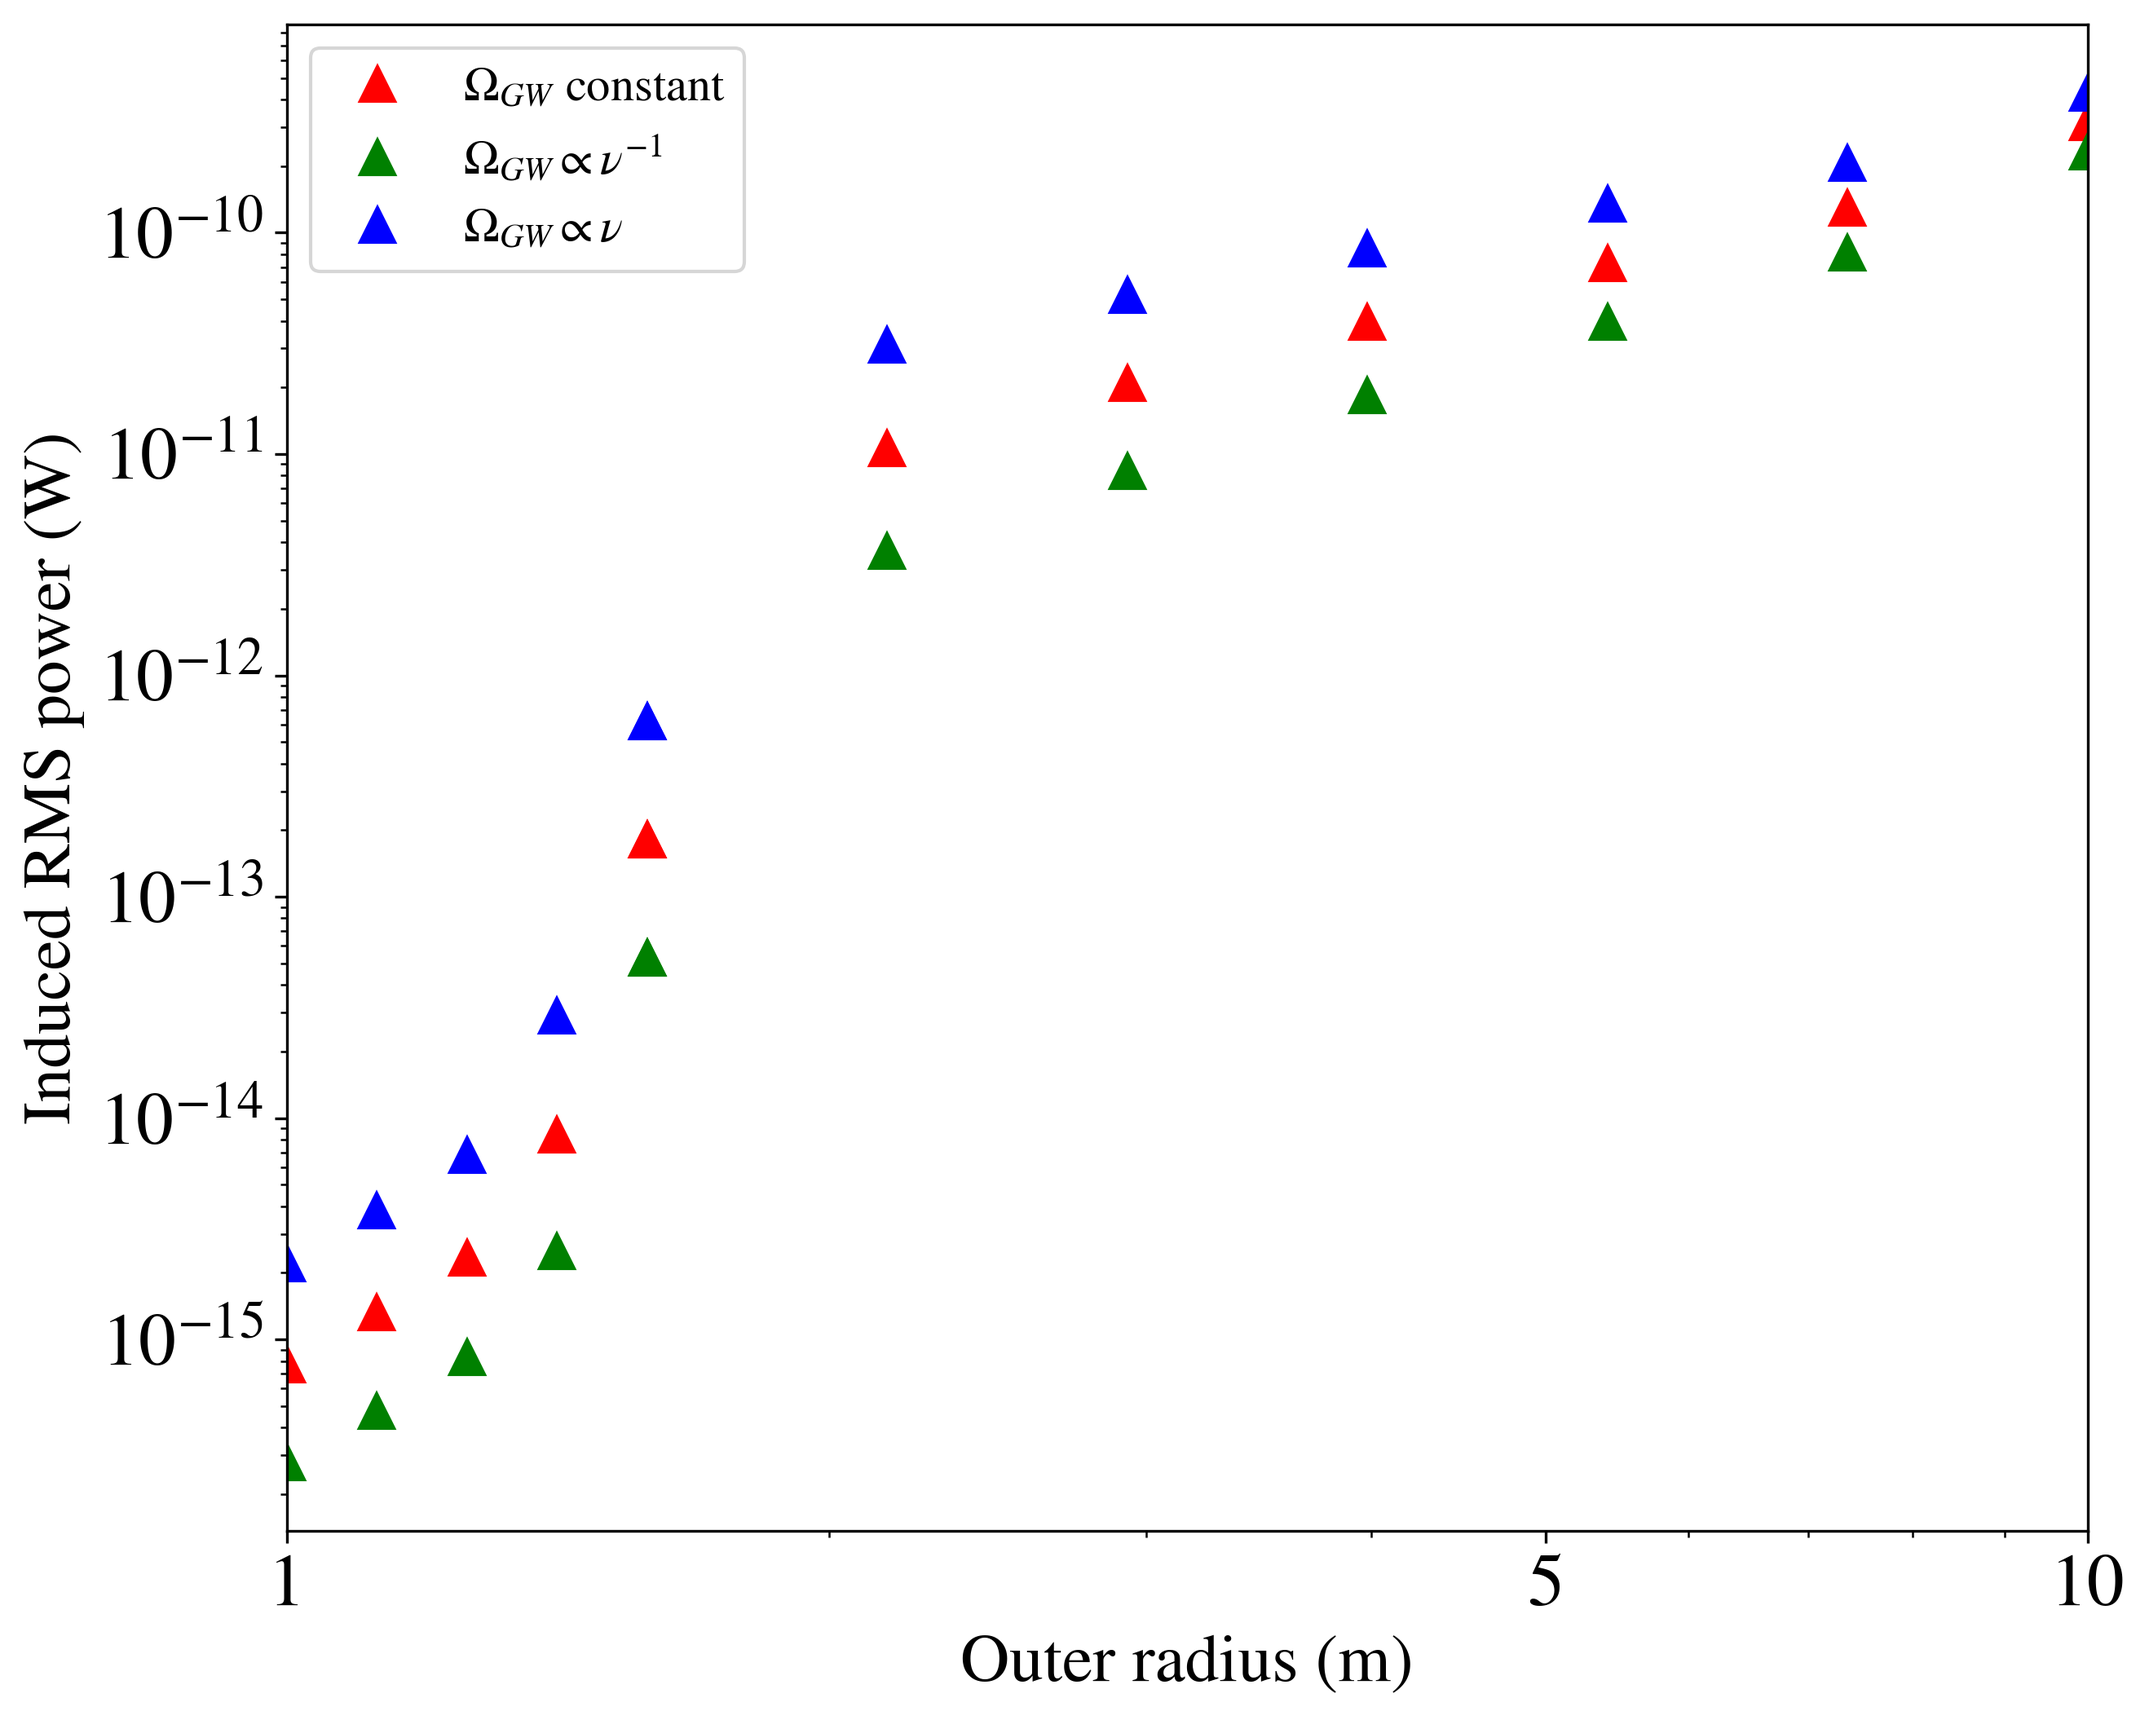
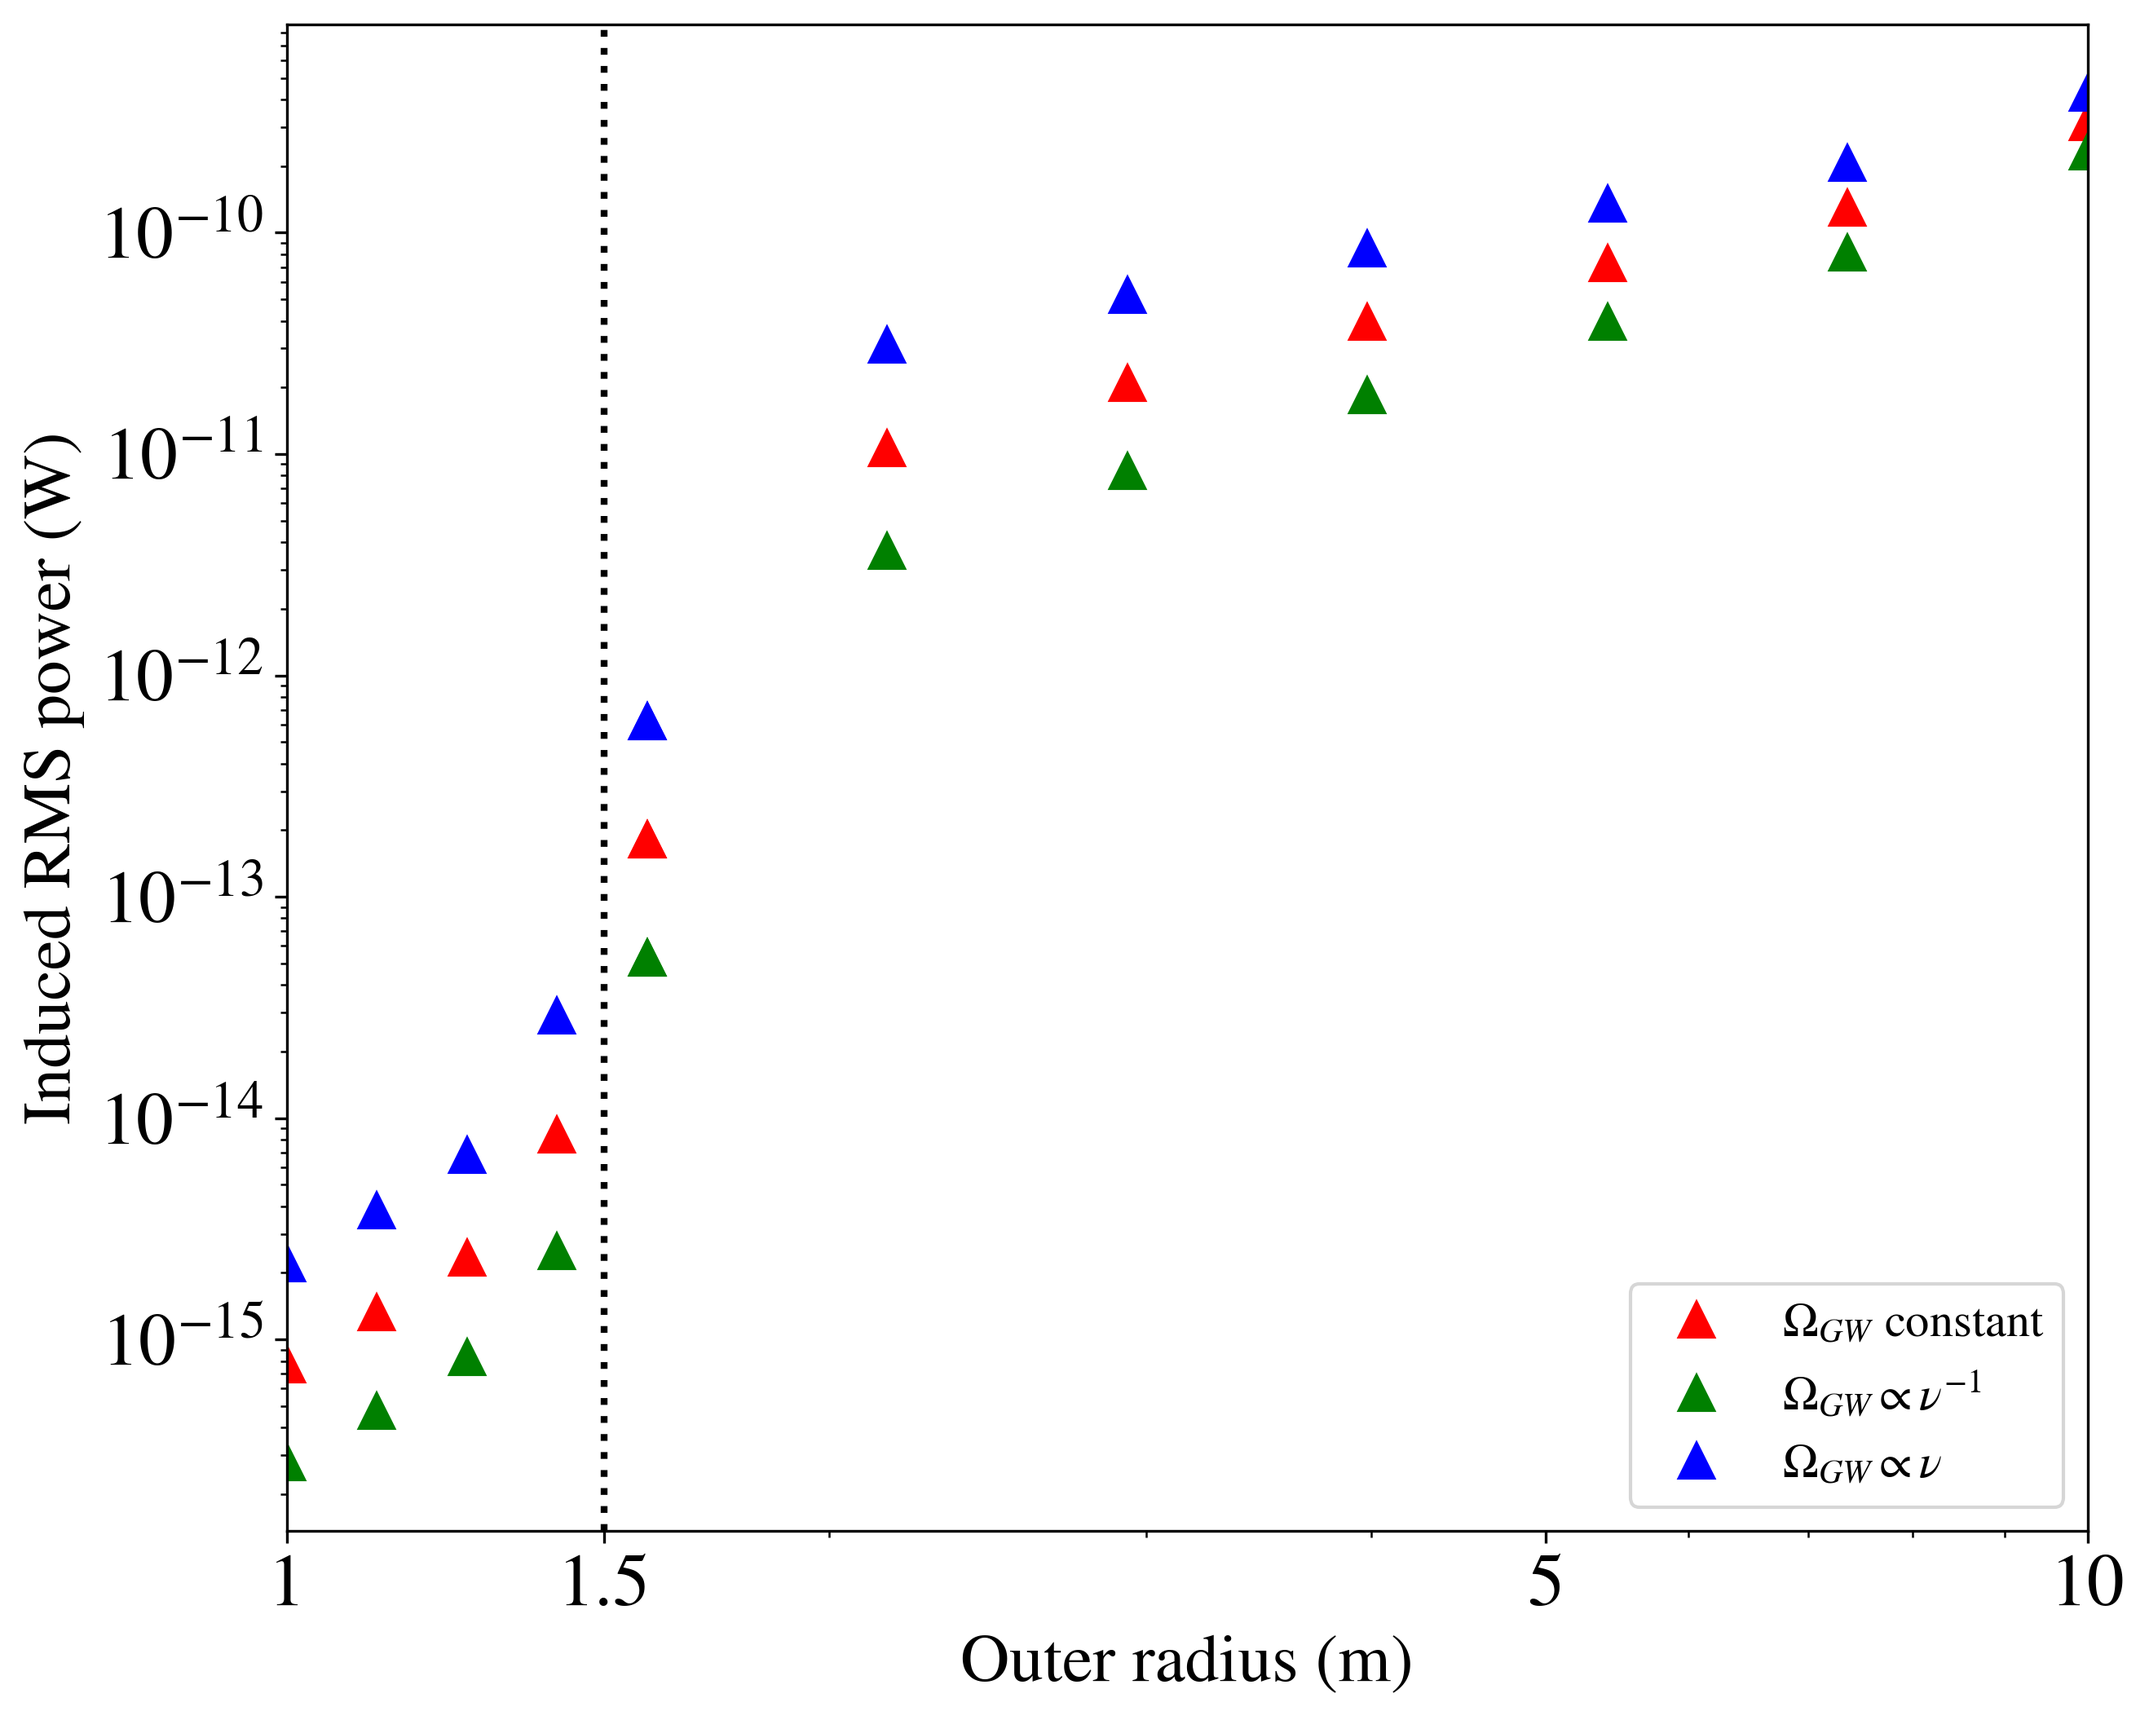
blblb

diff --git a/plot_pbh.py b/plot_pbh.py
@@ -33,7 +33,7 @@ with open('./SIMTIMEM5D25TEM.pkl','rb') as f:  # Python 3: open(..., 'rb')
 with open('./SIMFREQM5D25TEM.pkl','rb') as f:  # Python 3: open(..., 'rb')
     M,omega,TFdP_f,rmsP_f,t_f,dP_f = pickle.load(f)
     f.close()
-
+fsize=28
 figure(1)
 print(rmsP_t,rmsP_f,RMS_compute(fchirp,2200/25/M,2200/M,'TEM',5,M))
 ax1=subplot(1,2,1)
@@ -44,6 +44,7 @@ ylabel(r'Induced EM Power (W)')
 ax1.set_box_aspect(1)
 ax1.yaxis.set_major_formatter(ticker.ScalarFormatter(useMathText=True, useOffset=False))
 ax1.xaxis.set_major_formatter(ticker.ScalarFormatter(useMathText=True, useOffset=False))
+annotate(r"\bf massive boost",(5.1e-5,5e-10), xytext=(2e-5,2e-9),arrowprops=dict(facecolor='black', shrink=0.05),fontsize=fsize)
 ax2=subplot(1,2,2)
 loglog(omega/2/pi,abs(TFdP_f)**2,'g')
 axis([1e4,1e9,1e-42,1e-15])
@@ -70,6 +71,7 @@ ylabel(r'Induced EM Power (W)')
 ax1.set_box_aspect(1)
 ax1.yaxis.set_major_formatter(ticker.ScalarFormatter(useMathText=True, useOffset=False))
 ax1.xaxis.set_major_formatter(ticker.ScalarFormatter(useMathText=True, useOffset=False))
+annotate(r"\bf massive boost",(5.1e-5,5e-10), xytext=(2e-5,2e-9),arrowprops=dict(facecolor='black', shrink=0.05),fontsize=fsize)
 ax2=subplot(1,2,2)
 loglog(omega/2/pi,abs(TFdP_f)**2,'g')
 axis([1e4,1e9,1e-42,1e-15])
@@ -129,6 +131,7 @@ axis([1e1,1e9,1e-52,1e-28])
 xlabel(r'Frequency (Hz)')
 ylabel(r' $\left\vert \mathcal{P} (\omega) \right\vert^2 (W^2)$')
 ax2.set_box_aspect(1)
+annotate(r"\bf $\propto \omega^{11/6}$",(5e5,1e-32), xytext=(1e3,1e-31),arrowprops=dict(facecolor='black', shrink=0.05),fontsize=fsize)
 suptitle(r'\textbf{TM Cavity}')
 subplots_adjust(left=0.07,bottom=0.11,right=0.97,top=0.933,wspace=0.236,hspace=0.2)
 savefig("pbh3TM.png")

diff --git a/valid_approx.py b/valid_approx.py
@@ -17,15 +17,16 @@ rcParams['savefig.bbox'] = 'tight'
 rcParams['savefig.pad_inches'] = 0.1
 
 rcParams['figure.autolayout'] = False
-rcParams['figure.figsize'] = 9.5, 8
+rcParams['figure.figsize'] = 18, 8
 rcParams['axes.labelsize'] = 20
-rcParams['axes.titlesize'] = 22
+rcParams['axes.titlesize'] = 20
 rcParams['font.size'] = 16
-rcParams['lines.linewidth'] = 2.0
-rcParams['lines.markersize'] = 8
+rcParams['lines.linewidth'] = 2.5
+rcParams['lines.markersize'] = 0.5
 rcParams['legend.fontsize'] = 14
-rcParams['xtick.labelsize'] = 16
-rcParams['ytick.labelsize'] = 16
+rcParams['xtick.labelsize'] = 18
+rcParams['ytick.labelsize'] = 18
+
 cavity='TM'
 Mexp=5
 den_f=25
@@ -102,7 +103,7 @@ xmesh=rmesh*np.cos(thmesh)
 ymesh=rmesh*np.sin(thmesh)
 zp=[0.1,-0.5,1.75,-3]
 k=50000
-step=200
+step=250
 
 
 def Squad(zp):
@@ -135,10 +136,12 @@ for i in range(len(zp)):
     ax2[i].set_ylim(0,2)
     ax2[i].set_xlabel(r'Time (arb. unit)')
     #ax2[i].legend()
-    ax[i].set_title(r"z={}".format(zp[i]))
-    ax2[i].set_title(r"z={}".format(zp[i]))
+    ax[i].set_title(r"z={} m".format(zp[i]))
+    ax2[i].set_title(r"z={} m".format(zp[i]))
 ax[-1].legend(bbox_to_anchor =(1.45, 1.00))
 ax[0].set_ylabel(r'$L^2$-norm of the source term ($T^{-1}m^{-2}$)')
 ax2[-1].legend(bbox_to_anchor =(1.35, 1.00))
-
+plt.subplots_adjust(wspace=0.25)
+fig.savefig("approx.png")
+fig2.savefig("approx2.png")
 plt.show()

diff --git a/sgwb.py b/sgwb.py
@@ -137,12 +137,13 @@ print(slope_infl,r_value_infl)
 #print(slope_infl,r_value_infl)
 plt.xlabel('Outer radius (m)')
 plt.ylabel('Induced RMS power (W)')
+plt.axvline(1.5,color="black",linewidth=2,linestyle=":")
 plt.xlim(1,10)
 ax=plt.gca()
 ax.xaxis.set_major_formatter(ScalarFormatter())
 ax.xaxis.set_minor_formatter(NullFormatter())
 #plt.xticks([])
-plt.xticks([1,5,10],['1','5','10'])
+plt.xticks([1,1.5,5,10],['1','1.5','5','10'])
 #plt.yticks()
 plt.legend()
 plt.savefig("radius.png")
